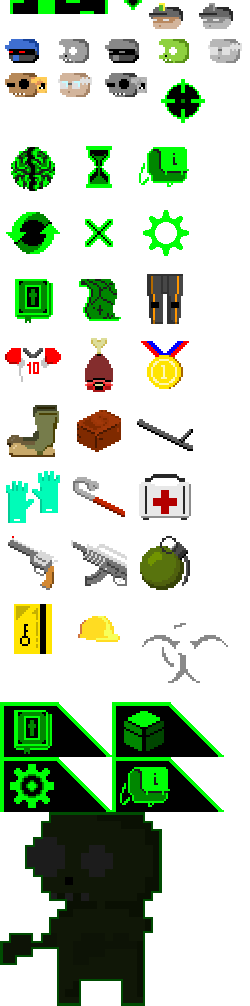
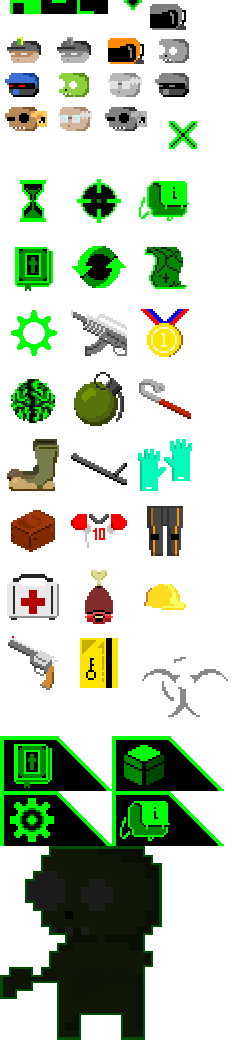
hazmaster

diff --git a/server/Level.cpp b/server/Level.cpp
@@ -8,6 +8,7 @@
 #include "characters/Hunter.hpp"
 #include "characters/Scientist.hpp"
 #include "characters/Guard.hpp"
+#include "characters/Hazmaster.hpp"
 #include "structures/Wall.hpp"
 #include "structures/Door.hpp"
 #include "structures/Chest.hpp"
@@ -97,6 +98,7 @@ void Level::load(GameplayServer* _server, LevelLoader::Level &levelDef)
     runners.push_back(new LevelRunner<Hunter>(this, &hunters));
     runners.push_back(new LevelRunner<Scientist>(this, &scientists));
     runners.push_back(new LevelRunner<Guard>(this, &guards));
+    runners.push_back(new LevelRunner<Hazmaster>(this, &hazmasters));
     runners.push_back(new LevelRunner<Wall>(this, &walls));
     runners.push_back(new LevelRunner<Door>(this, &doors));
     runners.push_back(new LevelRunner<Chest>(this, &chests));
@@ -316,6 +318,19 @@ void Level::load(GameplayServer* _server, LevelLoader::Level &levelDef)
                         c = guard;
                         break;
                     }
+                    case Character::Type::Hazmaster:
+                    {
+                        Hazmaster* hazmaster = new Hazmaster();
+                        hazmaster->load(this, server->getNextBodyId(), t->schema.x, t->schema.y);
+                        hazmaster->moveToPosition(t->schema.x, t->schema.y);
+                        hazmasters.push_back(hazmaster);
+                        hazmaster->hostilityCheckAi = AiRoutines::Combat::Generic_DetectHostility;
+                        hazmaster->combatDetectionAi = AiRoutines::Combat::Default_DetectCombat;
+                        hazmaster->combatDecisionAi = AiRoutines::Combat::Guard_DecideCombat;
+                        hazmaster->getStartingDialog = std::bind(&Level::getDialogTree, this);
+                        c = hazmaster;
+                        break;
+                    }
                 }
 
                 if(c)
@@ -510,6 +525,8 @@ void Level::enterCombat()
     {
         state = State::Combat;
 
+        // TODO: Can't we use the Character metalist?
+
         // Move every character into the turn queue
         for(unsigned int i=0; i < zombies.size(); i++)
             if(!zombies[i]->schema.isDead())
@@ -526,6 +543,9 @@ void Level::enterCombat()
         for (unsigned int i = 0; i < guards.size(); i++)
             if (!guards[i]->schema.isDead())
                 turnQueue.push_back(guards[i]);
+        for (unsigned int i = 0; i < hazmasters.size(); i++)
+            if (!hazmasters[i]->schema.isDead())
+                turnQueue.push_back(hazmasters[i]);
 
         // Sort the turn queue by initiative
         std::sort(turnQueue.begin(), turnQueue.end(), [] (Character* characterFirst, Character* characterSecond) -> bool {
@@ -644,6 +664,9 @@ void Level::removeCharacter(Character* character)
             break;
         case Character::Type::Scientist:
             scientists.erase(std::remove(scientists.begin(), scientists.end(), static_cast<Scientist*>(character)), scientists.end());
+            break;
+        case Character::Type::Hazmaster:
+            hazmasters.erase(std::remove(hazmasters.begin(), hazmasters.end(), static_cast<Hazmaster*>(character)), hazmasters.end());
             break;
     }
 
@@ -1298,6 +1321,9 @@ void Level::prepareSnapshot(bit::ServerPacket &packet, bit::RemoteClient& client
                         break;
                     case Character::Type::Guard:
                         packNetworkBody<Guard, Character>(packet, full, c, b->schema.type, c->schema.type);
+                        break;
+                    case Character::Type::Hazmaster:
+                        packNetworkBody<Hazmaster, Character>(packet, full, c, b->schema.type, c->schema.type);
                         break;
                 }
                 break;

diff --git a/xogeni/LevelGenerator/CellMap.cpp b/xogeni/LevelGenerator/CellMap.cpp
@@ -20,6 +20,7 @@ unsigned int CHARACTER_HUNTER = 2;
 unsigned int CHARACTER_OGRE = 3;
 unsigned int CHARACTER_SCIENTIST = 4;
 unsigned int CHARACTER_GUARD = 5;
+unsigned int CHARACTER_HAZMASTER = 6;
 
 unsigned int STRUCTURE_WALL = 1;
 unsigned int STRUCTURE_DOOR = 2;
@@ -1552,19 +1553,8 @@ void XoGeni::CellMap::populateRoom(Room* room)
                 int ow = 12;
             }
             cell->hasCharacter = true;
-
-            switch (difficultyLevel)
-            {
-                case 0:
-                    cell->characterType = CHARACTER_SCIENTIST; // scientist
-                    break;
-                case 1:
-                    cell->characterType = CHARACTER_GUARD; // guard
-                    break;
-                default:
-                    cell->characterType = CHARACTER_HUNTER; // Hunter
-                    break;
-            }
+            cell->characterType = getStandardEnemyTypeForDifficulty();
+            int check = 0;
         }
     }
 }
@@ -1574,11 +1564,21 @@ unsigned int XoGeni::CellMap::getStandardEnemyTypeForDifficulty()
     switch (difficultyLevel)
     {
         case 0:
-            return CHARACTER_SCIENTIST;
+            return LevelGenerator::random.of(
+                CHARACTER_SCIENTIST,
+                CHARACTER_HAZMASTER
+            );
         case 1:
-            return CHARACTER_GUARD;
+            return LevelGenerator::random.of(
+                CHARACTER_HAZMASTER,
+                CHARACTER_GUARD
+            );
         case 2:
-            return CHARACTER_HUNTER;
+            return LevelGenerator::random.of(
+                CHARACTER_HAZMASTER,
+                CHARACTER_GUARD,
+                CHARACTER_HUNTER
+            );
         default:
             return CHARACTER_HUNTER; // TODO better enemy scaling
     }

diff --git a/client/StateGamePlay.cpp b/client/StateGamePlay.cpp
@@ -1435,15 +1435,10 @@ void StateGamePlay::handlePacket_ServerEvent(bit::ServerPacket &packet)
                 switch(type)
                 {
                     case Character::Type::Zombie:
-                        rogueZombieGame->soundManager->play(humanCharacterDeathSoundId);
-                        break;
                     case Character::Type::Hunter:
-                        rogueZombieGame->soundManager->play(humanCharacterDeathSoundId);
-                        break;
                     case Character::Type::Scientist:
-                        rogueZombieGame->soundManager->play(humanCharacterDeathSoundId);
-                        break;
                     case Character::Type::Guard:
+                    case Character::Type::Hazmaster:
                         rogueZombieGame->soundManager->play(humanCharacterDeathSoundId);
                         break;
                 }

diff --git a/server/characters/Hazmaster.cpp b/server/characters/Hazmaster.cpp
@@ -1,0 +1,27 @@
+#include "Hazmaster.hpp"
+#include "../Level.hpp"
+#include "../GameplayServer.hpp"
+#include "../items/Item.hpp"
+
+Hazmaster::Hazmaster()
+    : Character()
+{
+    consumptionHeal = 10; // if eaten I will heal
+}
+
+void Hazmaster::load(Level* _level, unsigned int _id, float _x, float _y)
+{
+    Character::load(_level, _id, Character::Type::Hazmaster, _x, _y, _level->tileWidth, _level->tileHeight);
+
+    schema.maxHealth = 20;
+    schema.health = 20;
+
+    if (bit::Math::random(2) == 0) {
+        Item* pistol = Item::create(Item::Magnum357, level->server->getNextItemId());
+        equip(Character::EquipmentSlot::WeaponPrimary, pistol);
+    }
+    else {
+        Item* baton = Item::create(Item::Baton, level->server->getNextItemId());
+        equip(Character::EquipmentSlot::WeaponPrimary, baton);
+    }
+}

diff --git a/server/Level.hpp b/server/Level.hpp
@@ -23,6 +23,7 @@ class Ogre;
 class Hunter;
 class Scientist;
 class Guard;
+class Hazmaster;
 class Player;
 class Tile;
 class Door;
@@ -55,6 +56,7 @@ public:
     std::vector<Hunter*> hunters;
     std::vector<Scientist*> scientists;
     std::vector<Guard*> guards;
+    std::vector<Hazmaster*> hazmasters;
     std::vector<Structure*> structures; // meta list
     std::vector<Wall*> walls;
     std::vector<Door*> doors;

diff --git a/server/characters/Hazmaster.hpp b/server/characters/Hazmaster.hpp
@@ -1,0 +1,23 @@
+#pragma once
+#ifndef RZ_HAZMASTER_H
+#define RZ_HAZMASTER_H
+
+#include "SFML/Graphics.hpp"
+#include "SFML/Network.hpp"
+#include "../../bitengine/Game.hpp"
+#include "../../bitengine/Network.hpp"
+#include "../Character.hpp"
+
+class DialogNode;
+
+class Hazmaster : public Character
+{
+public:
+
+    Hazmaster();
+
+    virtual void load(Level* level, unsigned int id, float x, float y);
+
+};
+
+#endif

diff --git a/client/CharacterClient.cpp b/client/CharacterClient.cpp
@@ -31,6 +31,7 @@ void CharacterClient::reinitialize()
         case Character::Type::Zombie:
         case Character::Type::Scientist:
         case Character::Type::Guard:
+        case Character::Type::Hazmaster:
             sprite.width = 40;
             sprite.height = 40;
             sprite.baseOffsetX = 20;

diff --git a/client/CharacterSprite.cpp b/client/CharacterSprite.cpp
@@ -305,6 +305,8 @@ std::string CharacterSprite::getSpriteMoniker(Character::Type t)
             return "Scientist";
         case Character::Type::Guard:
             return "Guard";
+        case Character::Type::Hazmaster:
+            return "Hazmaster";
     }
 }
 

diff --git a/server/Character.cpp b/server/Character.cpp
@@ -1889,6 +1889,8 @@ std::string Character::getTitle(Character::Type type)
             return "Scientist";
         case Character::Type::Guard:
             return "Guard";
+        case Character::Type::Hazmaster:
+            return "Hazmaster";
     }
 }
 

diff --git a/client/LevelClient.hpp b/client/LevelClient.hpp
@@ -13,11 +13,6 @@
 #include <map>
 
 class BaseLevelClientRunner;
-class ZombieClient;
-class OgreClient;
-class HunterClient;
-class ScientistClient;
-class GuardClient;
 class TileClient;
 class WallClient;
 class DoorClient;

diff --git a/server/Character.hpp b/server/Character.hpp
@@ -32,7 +32,8 @@ public:
         Ogre,
         Hunter,
         Scientist,
-        Guard
+        Guard,
+        Hazmaster
     };
 
     enum EquipmentSlot
